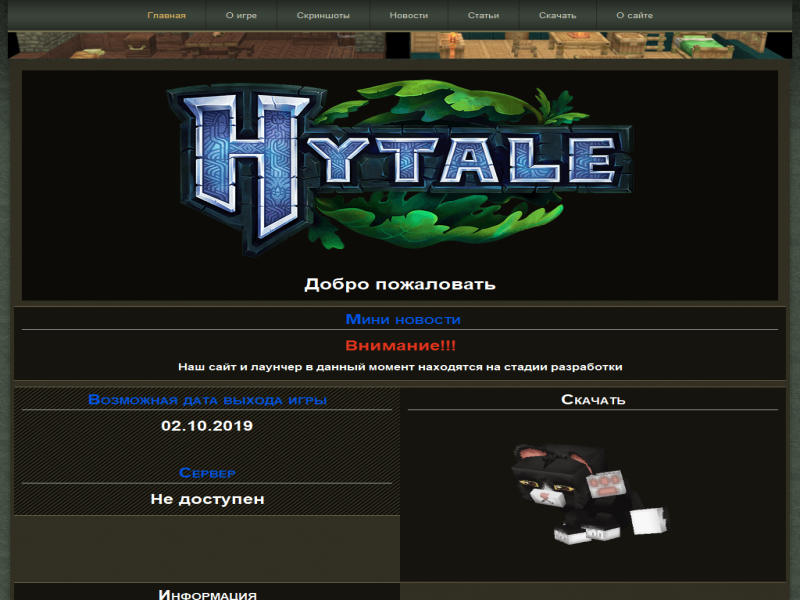
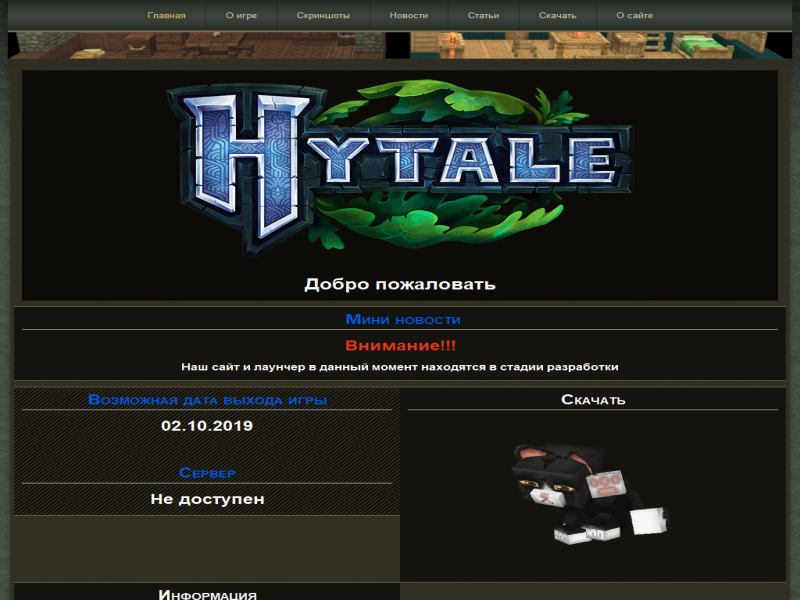
Обновление сайта

Changed region(s): [[0.2188, 0.6, 0.7812, 0.63]]

diff --git a/info.html b/info.html
@@ -15,7 +15,13 @@
     <script src="script.responsive.js"></script>
 
 
-</head>
+<style>.art-content .art-postcontent-0 .layout-item-0 { margin-bottom: 10px;  }
+.art-content .art-postcontent-0 .layout-item-1 { border-spacing: 10px 0px; border-collapse: separate;  }
+.art-content .art-postcontent-0 .layout-item-2 { border-top-style:solid;border-right-style:solid;border-bottom-style:solid;border-left-style:solid;border-top-width:1px;border-right-width:1px;border-bottom-width:1px;border-left-width:1px;border-top-color:#776D50;border-right-color:#776D50;border-bottom-color:#776D50;border-left-color:#776D50; color: #BAB097; background: #0C0B08; padding-right: 10px;padding-left: 10px;  }
+.ie7 .post .layout-cell {border:none !important; padding:0 !important; }
+.ie6 .post .layout-cell {border:none !important; padding:0 !important; }
+
+</style></head>
 <body>
 <div id="art-main">
     <div class="art-sheet clearfix">
@@ -39,36 +45,45 @@
                         <div class="art-layout-cell art-content clearfix"><article class="art-post art-article">
                                 
                                                 
-                <div class="art-postcontent art-postcontent-0 clearfix"><p style="text-align: center;"><img width="600" height="325" alt="" class="art-lightbox" src="images/logo.png" style="border-top-width: 0px; border-right-width: 0px; border-bottom-width: 0px; border-left-width: 0px;"><span style="-webkit-border-horizontal-spacing: 10px;"><span style="color: rgb(255, 255, 255); font-weight: bold; font-size: 16px;"><br></span></span></p>
-<p style="text-align: left;"><span style="-webkit-border-horizontal-spacing: 10px;"><span style="color: rgb(255, 255, 255); font-weight: bold; font-size: 16px;">Я думаю что не для кого не секрет что была очень попуряная игра "Minecraft" которую называли типо "А ничего так хороша" но теперь её называют типо "Пора умирать"</span></span></p>
-<p style="text-align: left;"><span style="color: rgb(255, 255, 255); font-weight: bold; font-size: 16px;">Вы спросите - Что это значит? - Я отвечу</span></p>
-<ol>
-<li><span style="color: rgb(255, 255, 255); font-size: 16px; font-weight: bold;">Minecraft уже всем надоел</span><br></li>
-<li><span style="color: rgb(255, 255, 255); font-size: 16px; font-weight: bold;">Minecraft слишком простая даже в первый день запуска который состоялся аж в 2009 году</span><br></li>
-<li><span style="color: rgb(255, 255, 255); font-size: 16px; font-weight: bold;">Minecrfat даже с модами не догоняет Hytale</span><br></li>
-<li><span style="color: rgb(255, 255, 255); font-size: 16px; font-weight: bold;">Для Minecraft до сих пор так и не смогли сделать некоторые моды например на другой вид генерации заброшенных шахт</span><br></li>
-<li><span style="color: rgb(255, 255, 255); font-size: 16px; font-weight: bold;">Minecraft устарел</span></li>
-</ol>
-<p><span style="color: rgb(255, 255, 255); font-size: 16px; font-weight: bold;">И вы спросите - И что дальше? - Я отвечу</span></p>
-<p style="text-align: center;"><span style="font-weight: bold; font-size: 48px; color: rgb(226, 52, 29);">Hytale</span></p>
-<p style="text-align: left;"><span style="color: rgb(255, 255, 255); font-size: 16px; font-weight: bold;">Hytale - Это игра в жанре "Песочница" и "Ролевая игра" конкурент игры "Minecraft"</span></p>
-<p style="text-align: center;"><span style="font-weight: bold; color: rgb(0, 224, 71); font-size: 48px;">Наконец-то</span><br></p>
-<p style="text-align: left;"><span style="color: rgb(255, 255, 255); font-size: 16px; font-weight: bold;">В игре в отличии от "Minecraft" есть всё и даже больше</span></p>
-<ul>
-<li><span style="color: rgb(255, 255, 255); font-size: 16px; font-weight: bold;">Нормальная анимация</span><br></li>
-<li><span style="color: rgb(255, 255, 255); font-size: 16px; font-weight: bold;">Искуственный интелекст</span><br></li>
-<li><span style="color: rgb(255, 255, 255); font-size: 16px; font-weight: bold;">Современная графика</span><br></li>
-<li><span style="color: rgb(255, 255, 255); font-size: 16px; font-weight: bold;">Тонна типов и видов генерации</span><br></li>
-<li><span style="color: rgb(255, 255, 255); font-size: 16px; font-weight: bold;">Сервер</span><br></li>
-<li><span style="color: rgb(255, 255, 255); font-size: 16px; font-weight: bold;">Мощный встроенный</span><span style="color: rgb(255, 255, 255); font-size: 16px; font-weight: bold;">&nbsp;моддинг</span></li>
-</ul>
-<p><span style="color: rgb(255, 255, 255); font-size: 16px; font-weight: bold;">Сразу скажу игра разрабатывается компанией "<span style="color: rgb(0, 224, 71);">Hypixel Studios</span>" у которого сейчас сервер для игры "Minecraft" и который находится в первом топе среди других серверов</span></p>
-<p><span style="color: rgb(255, 255, 255); font-size: 16px; font-weight: bold;">И да кстати игра имеет ещё две вещи от которых вы ошалете</span></p>
-<ul>
-<li><span style="color: rgb(255, 255, 255); font-size: 16px; font-weight: bold;">Игра разрабатывается уже с середины 2015 года тоесть 5 лет</span><br></li>
-<li><span style="color: rgb(255, 255, 255); font-size: 16px; font-weight: bold;">Этой компании&nbsp;"<span style="color: rgb(0, 224, 71);">Hypixel Studios</span>" помогли из другой компании а именно "<span style="color: rgb(12, 223, 72);">Riot Games</span>" деньгами а именно "<span style="color: rgb(0, 224, 71);">3600000 доларов</span>"</span><br></li>
-</ul>
-<p><span style="color: rgb(255, 255, 255); font-size: 16px; font-weight: bold;">Итак. Если вы попали сюда случайно то ничего страшного. А если вы хотели попасть именно сюда то добро пожаловать. На нашем сайте будет много всего интерестного по этой игре</span></p></div>
+                <div class="art-postcontent art-postcontent-0 clearfix"><div class="art-content-layout-wrapper layout-item-0">
+<div class="art-content-layout layout-item-1">
+    <div class="art-content-layout-row">
+    <div class="art-layout-cell layout-item-2" style="width: 100%" >
+        <p style="text-align: center;"><img width="600" height="325" alt="" class="art-lightbox" src="images/logo.png" style="border-top-width: 0px; border-right-width: 0px; border-bottom-width: 0px; border-left-width: 0px;"><span style="-webkit-border-horizontal-spacing: 10px;"><span style="color: rgb(255, 255, 255); font-weight: bold; font-size: 16px;"><br></span></span></p>
+        <p style="text-align: left;"><span style="-webkit-border-horizontal-spacing: 10px;"><span style="color: rgb(255, 255, 255); font-weight: bold; font-size: 16px;">Я думаю что не для кого не секрет что была очень попуряная игра "Minecraft" которую называли типо "А ничего так хороша" но теперь её называют типо "Пора умирать"</span></span></p>
+        <p style="text-align: left;"><span style="color: rgb(255, 255, 255); font-weight: bold; font-size: 16px;">Вы спросите - Что это значит? - Я отвечу</span></p>
+        <ol>
+        <li><span style="color: rgb(255, 255, 255); font-size: 16px; font-weight: bold;">Minecraft уже всем надоел</span><br></li>
+        <li><span style="color: rgb(255, 255, 255); font-size: 16px; font-weight: bold;">Minecraft слишком простая даже в первый день запуска который состоялся аж в 2009 году</span><br></li>
+        <li><span style="color: rgb(255, 255, 255); font-size: 16px; font-weight: bold;">Minecrfat даже с модами не догоняет Hytale</span><br></li>
+        <li><span style="color: rgb(255, 255, 255); font-size: 16px; font-weight: bold;">Для Minecraft до сих пор так и не смогли сделать некоторые моды например на другой вид генерации заброшенных шахт</span><br></li>
+        <li><span style="color: rgb(255, 255, 255); font-size: 16px; font-weight: bold;">Minecraft устарел</span></li>
+        </ol>
+        <p><span style="color: rgb(255, 255, 255); font-size: 16px; font-weight: bold;">И вы спросите - И что дальше? - Я отвечу</span></p>
+        <p style="text-align: center;"><span style="font-weight: bold; font-size: 48px; color: rgb(226, 52, 29);">Hytale</span></p>
+        <p style="text-align: left;"><span style="color: rgb(255, 255, 255); font-size: 16px; font-weight: bold;">Hytale - Это игра в жанре "Песочница" и "Ролевая игра" конкурент игры "Minecraft"</span></p>
+        <p style="text-align: center;"><span style="font-weight: bold; color: rgb(0, 224, 71); font-size: 48px;">Наконец-то</span><br></p>
+        <p style="text-align: left;"><span style="color: rgb(255, 255, 255); font-size: 16px; font-weight: bold;">В игре в отличии от "Minecraft" есть всё и даже больше</span></p>
+        <ul>
+        <li><span style="color: rgb(255, 255, 255); font-size: 16px; font-weight: bold;">Нормальная анимация</span><br></li>
+        <li><span style="color: rgb(255, 255, 255); font-size: 16px; font-weight: bold;">Искуственный интелекст</span><br></li>
+        <li><span style="color: rgb(255, 255, 255); font-size: 16px; font-weight: bold;">Современная графика</span><br></li>
+        <li><span style="color: rgb(255, 255, 255); font-size: 16px; font-weight: bold;">Тонна типов и видов генерации</span><br></li>
+        <li><span style="color: rgb(255, 255, 255); font-size: 16px; font-weight: bold;">Сервер</span><br></li>
+        <li><span style="color: rgb(255, 255, 255); font-size: 16px; font-weight: bold;">Мощный встроенный</span><span style="color: rgb(255, 255, 255); font-size: 16px; font-weight: bold;">&nbsp;моддинг</span></li>
+        </ul>
+        <p><span style="color: rgb(255, 255, 255); font-size: 16px; font-weight: bold;">Сразу скажу игра разрабатывается компанией "<span style="color: rgb(0, 224, 71);">Hypixel Studios</span>" у которого сейчас сервер для игры "Minecraft" и который находится в первом топе среди других серверов</span></p>
+        <p><span style="color: rgb(255, 255, 255); font-size: 16px; font-weight: bold;">И да кстати игра имеет ещё две вещи от которых вы ошалете</span></p>
+        <ul>
+        <li><span style="color: rgb(255, 255, 255); font-size: 16px; font-weight: bold;">Игра разрабатывается уже с середины 2015 года тоесть 5 лет</span><br></li>
+        <li><span style="color: rgb(255, 255, 255); font-size: 16px; font-weight: bold;">Этой компании&nbsp;"<span style="color: rgb(0, 224, 71);">Hypixel Studios</span>" помогли из другой компании а именно "<span style="color: rgb(12, 223, 72);">Riot Games</span>" деньгами а именно "<span style="color: rgb(0, 224, 71);">3600000 доларов</span>"</span><br></li>
+        </ul>
+        <p><span style="color: rgb(255, 255, 255); font-size: 16px; font-weight: bold;">Итак. Если вы попали сюда случайно то ничего страшного. А если вы хотели попасть именно сюда то добро пожаловать. На нашем сайте будет много всего интерестного по этой игре</span></p>
+    </div>
+    </div>
+</div>
+</div>
+</div>
 </article></div>
                     </div>
                 </div>

diff --git a/index.html b/index.html
@@ -68,7 +68,7 @@
     <div class="art-layout-cell layout-item-5" style="width: 100%" >
         <h3 style="padding-bottom: 5px; border-bottom-width: 1px; border-bottom-style: solid; border-bottom-color: rgb(189, 189, 189);"><span style="color: rgb(192, 183, 160);"><span style="font-size: 24px; font-weight: bold; color: rgb(0, 84, 229);">&nbsp;Мини новости</span></span></h3>
         <p style="text-align: center;"><span style="font-size: 24px; font-weight: bold; color: rgb(226, 52, 29);">Внимание!!!</span></p>
-        <p style="text-align: center;"><span style="color: rgb(255, 255, 255); font-weight: bold; font-size: 16px;">Наш сайт и лаунчер в данный момент находятся на стадии разработки</span></p>
+        <p style="text-align: center;"><span style="color: rgb(255, 255, 255); font-weight: bold; font-size: 16px;">Наш сайт и лаунчер в данный момент находятся в стадии разработки</span></p>
     </div>
     </div>
 </div>
